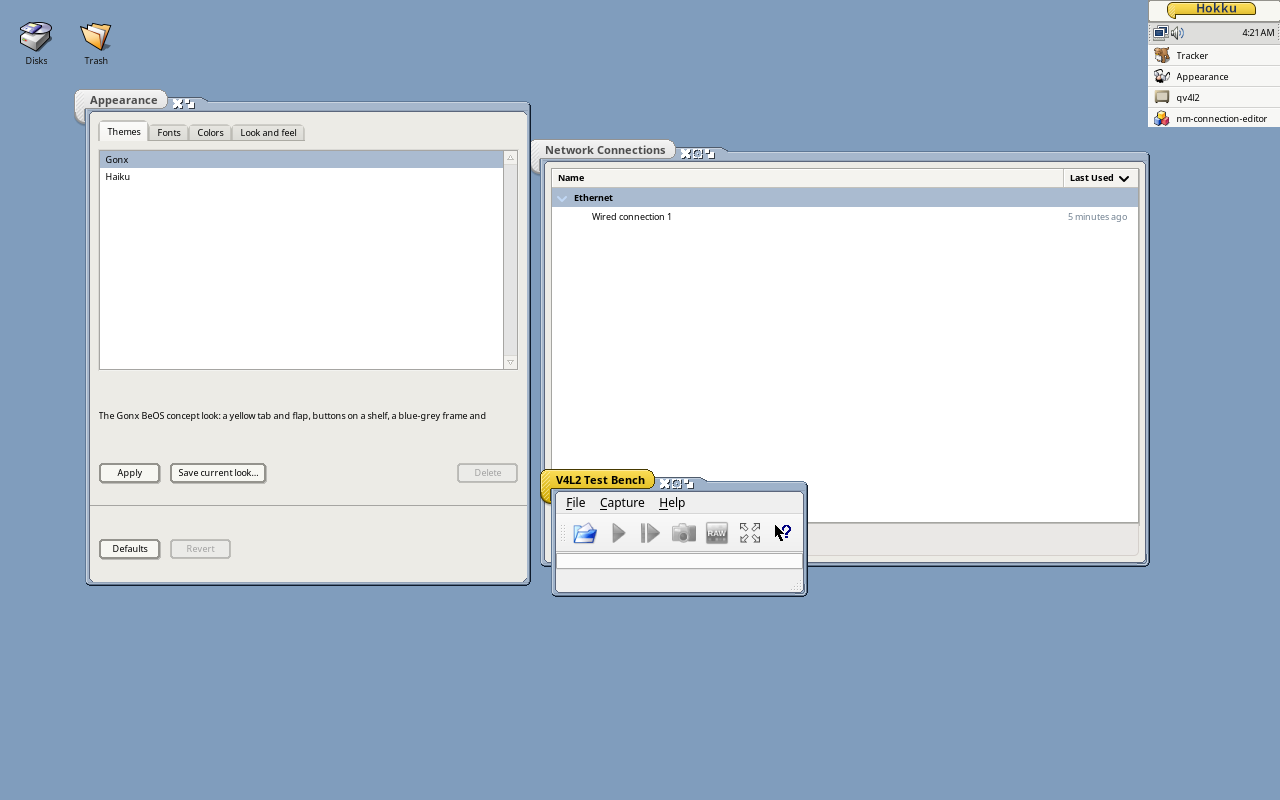
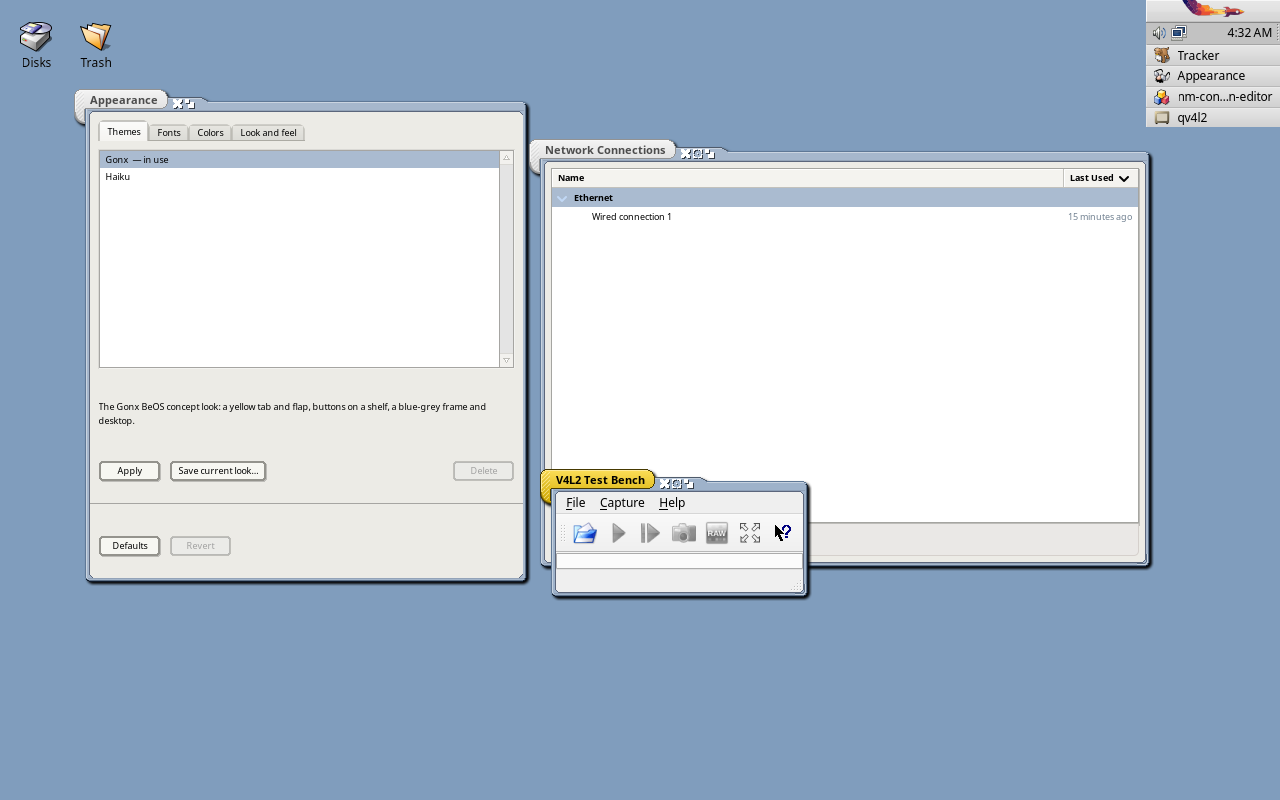
The Gonx mockups' shadow under every window
Hokku at ec04409: Hokku's own windows in the Haiku and Gonx frames cast
the shadow of Cotito's Gonx mockups, of a light above and to the left,
four pixels past the frame's right and bottom edges.

- labwc-hokku (pkgrel 3): other apps' windows cast the same shadow,
  painted by the same frame code (gonx_frame_paint_shadow()) into its
  strips, which reach past the frame on the right and below; none when
  maximized. Its frame sources come from ec04409.
- README: the frame shots again, with the shadows.

Tested in the 1.0 ISO with Hokku ec04409 and labwc-hokku: Appearance,
Terminal, Network Connections and V4L2 Test Bench in both looks, the
shadow's darkening per pixel 88, 65, 34 and 12 percent against the
mockups' 87, 65, 33 and 11; Terminal resized and zoomed and back.

diff --git a/README.md b/README.md
@@ -49,12 +49,14 @@ Hokku (2439048) on the 1.0 ISO.
 
 Other apps' windows get the theme's frame too: labwc-hokku draws Hokku's own Haiku or Gonx
 tab and border round them, so a GTK or Qt window moves, zooms, closes and resizes like a Hokku
-one. Below, Appearance (Hokku), Network Connections (GTK 3) and V4L2 Test Bench (Qt 6, the
-active window), from Hokku ae243aa and labwc-hokku on the 1.0 ISO:
+one. Every window casts the shadow of the Gonx mockups, of a light above and to the left:
+four pixels past the frame's right and bottom edges, none when it fills the screen. Below,
+Appearance (Hokku), Network Connections (GTK 3) and V4L2 Test Bench (Qt 6), from Hokku
+ec04409 and labwc-hokku on the 1.0 ISO:
 
-![Haiku's look: Appearance with Haiku in use, Network Connections and V4L2 Test Bench, each in Haiku's frame: a tab as wide as its title with the close box at the left and the zoom box at the right, the Qt app's tab yellow as the active window, the others grey](docs/screenshots/frames-haiku.png)
+![Haiku's look: Appearance with Haiku in use, Network Connections and V4L2 Test Bench, each in Haiku's frame and casting a shadow down and to the right: a tab as wide as its title with the close box at the left and the zoom box at the right, the Qt app's tab yellow as the active window, the others grey](docs/screenshots/frames-haiku.png)
 
-![Gonx: the same three windows in the Gonx frame, a rounded tab with the close, zoom and minimize buttons on the blue-grey shelf beside it, the Qt app's tab yellow as the active window](docs/screenshots/frames-gonx.png)
+![Gonx: the same three windows in the Gonx frame, a rounded tab with the close, zoom and minimize buttons on the blue-grey shelf beside it, each window's shadow falling down and to the right over the desktop and the windows below, the Qt app's tab yellow as the active window](docs/screenshots/frames-gonx.png)
 
 The same Gonx controls in Hokku's Showcase, a GTK 3 app and a Qt app (the GTK and Qt test
 galleries copy Showcase's layout):
